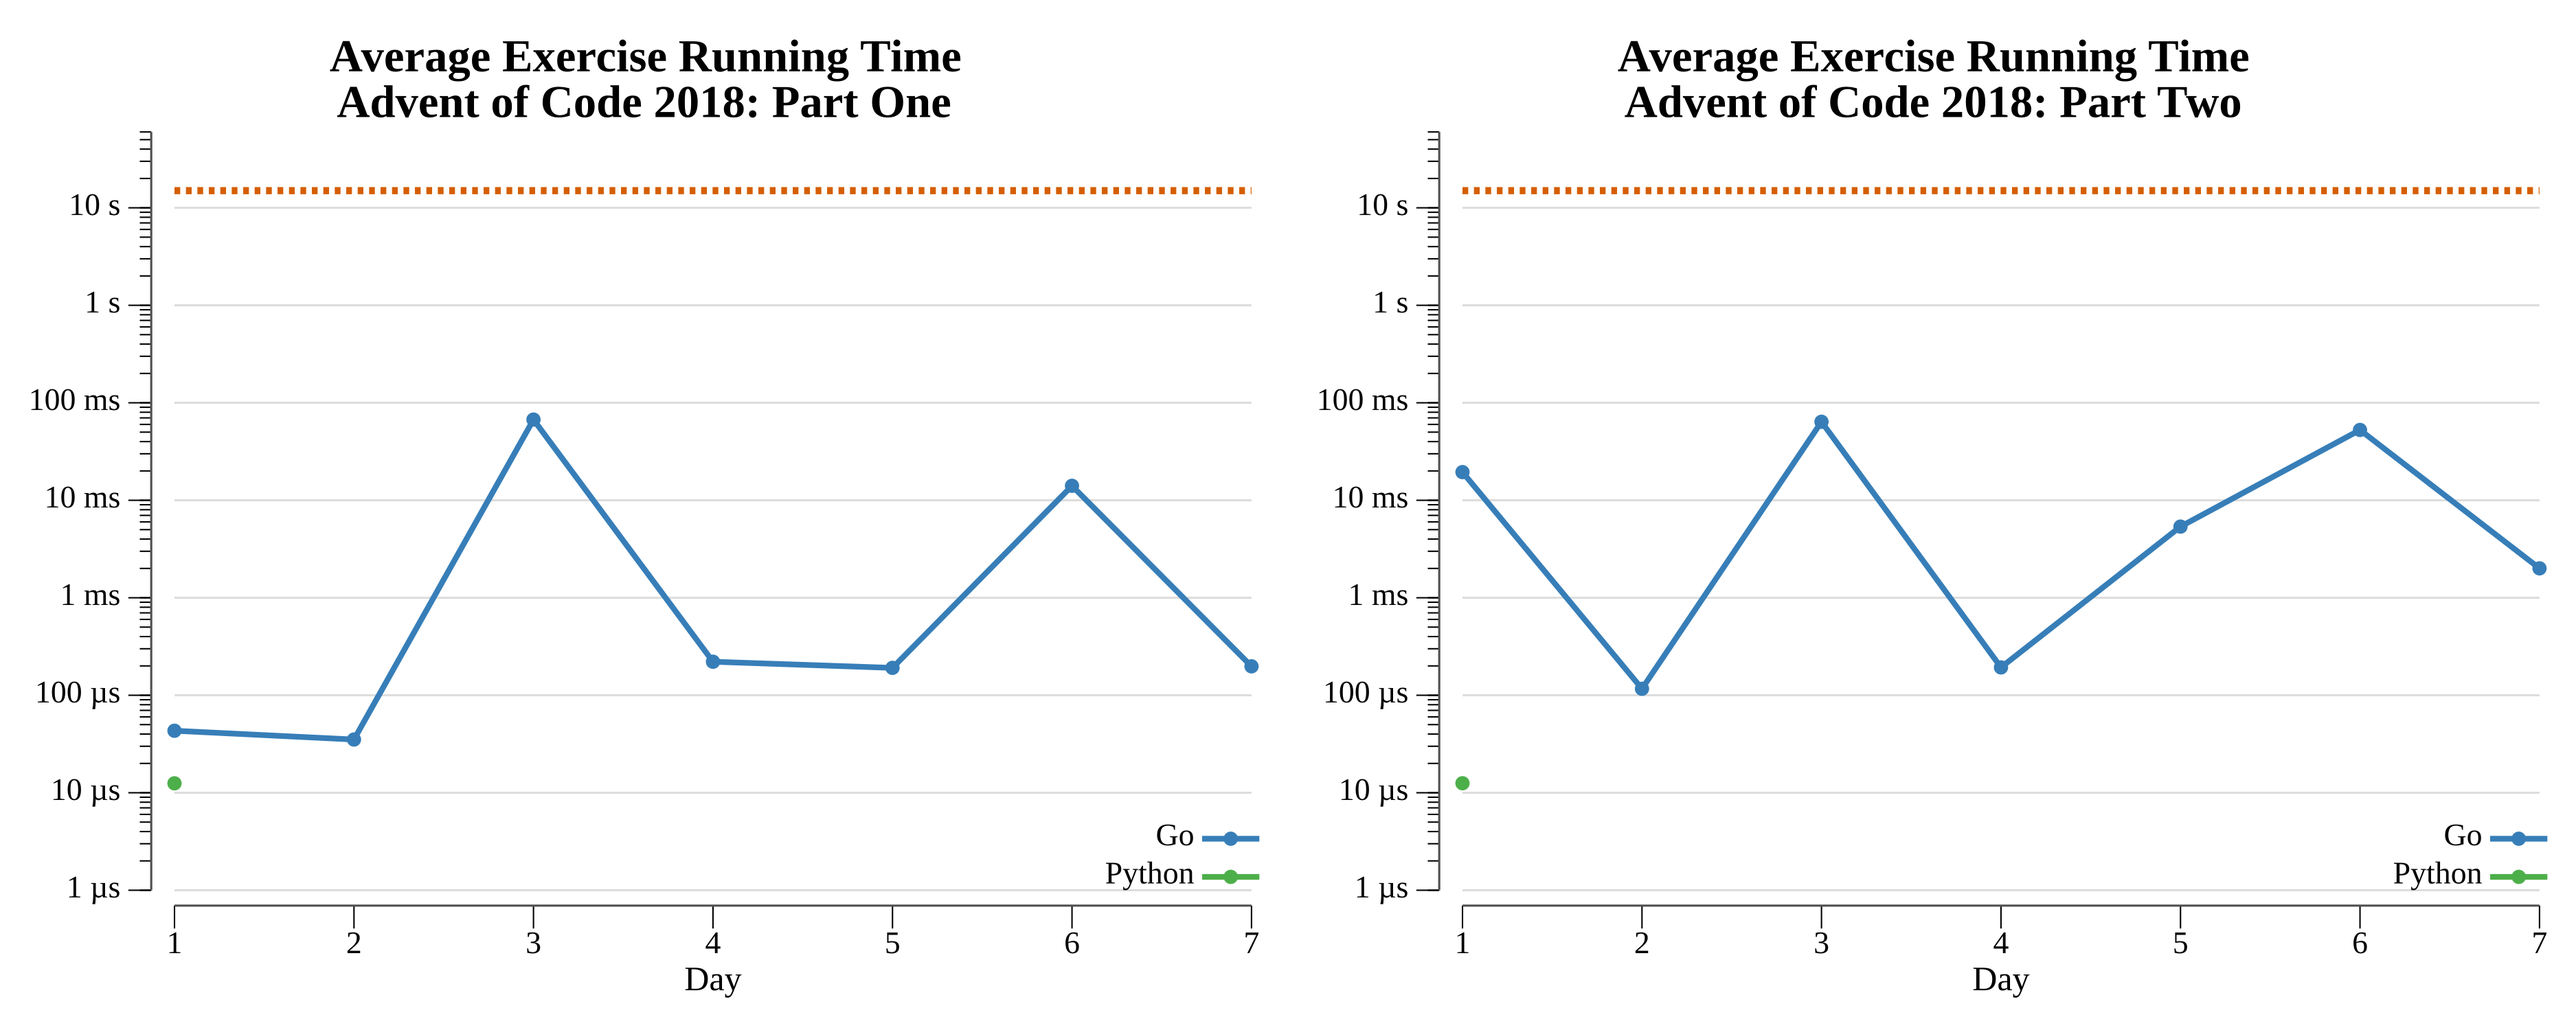
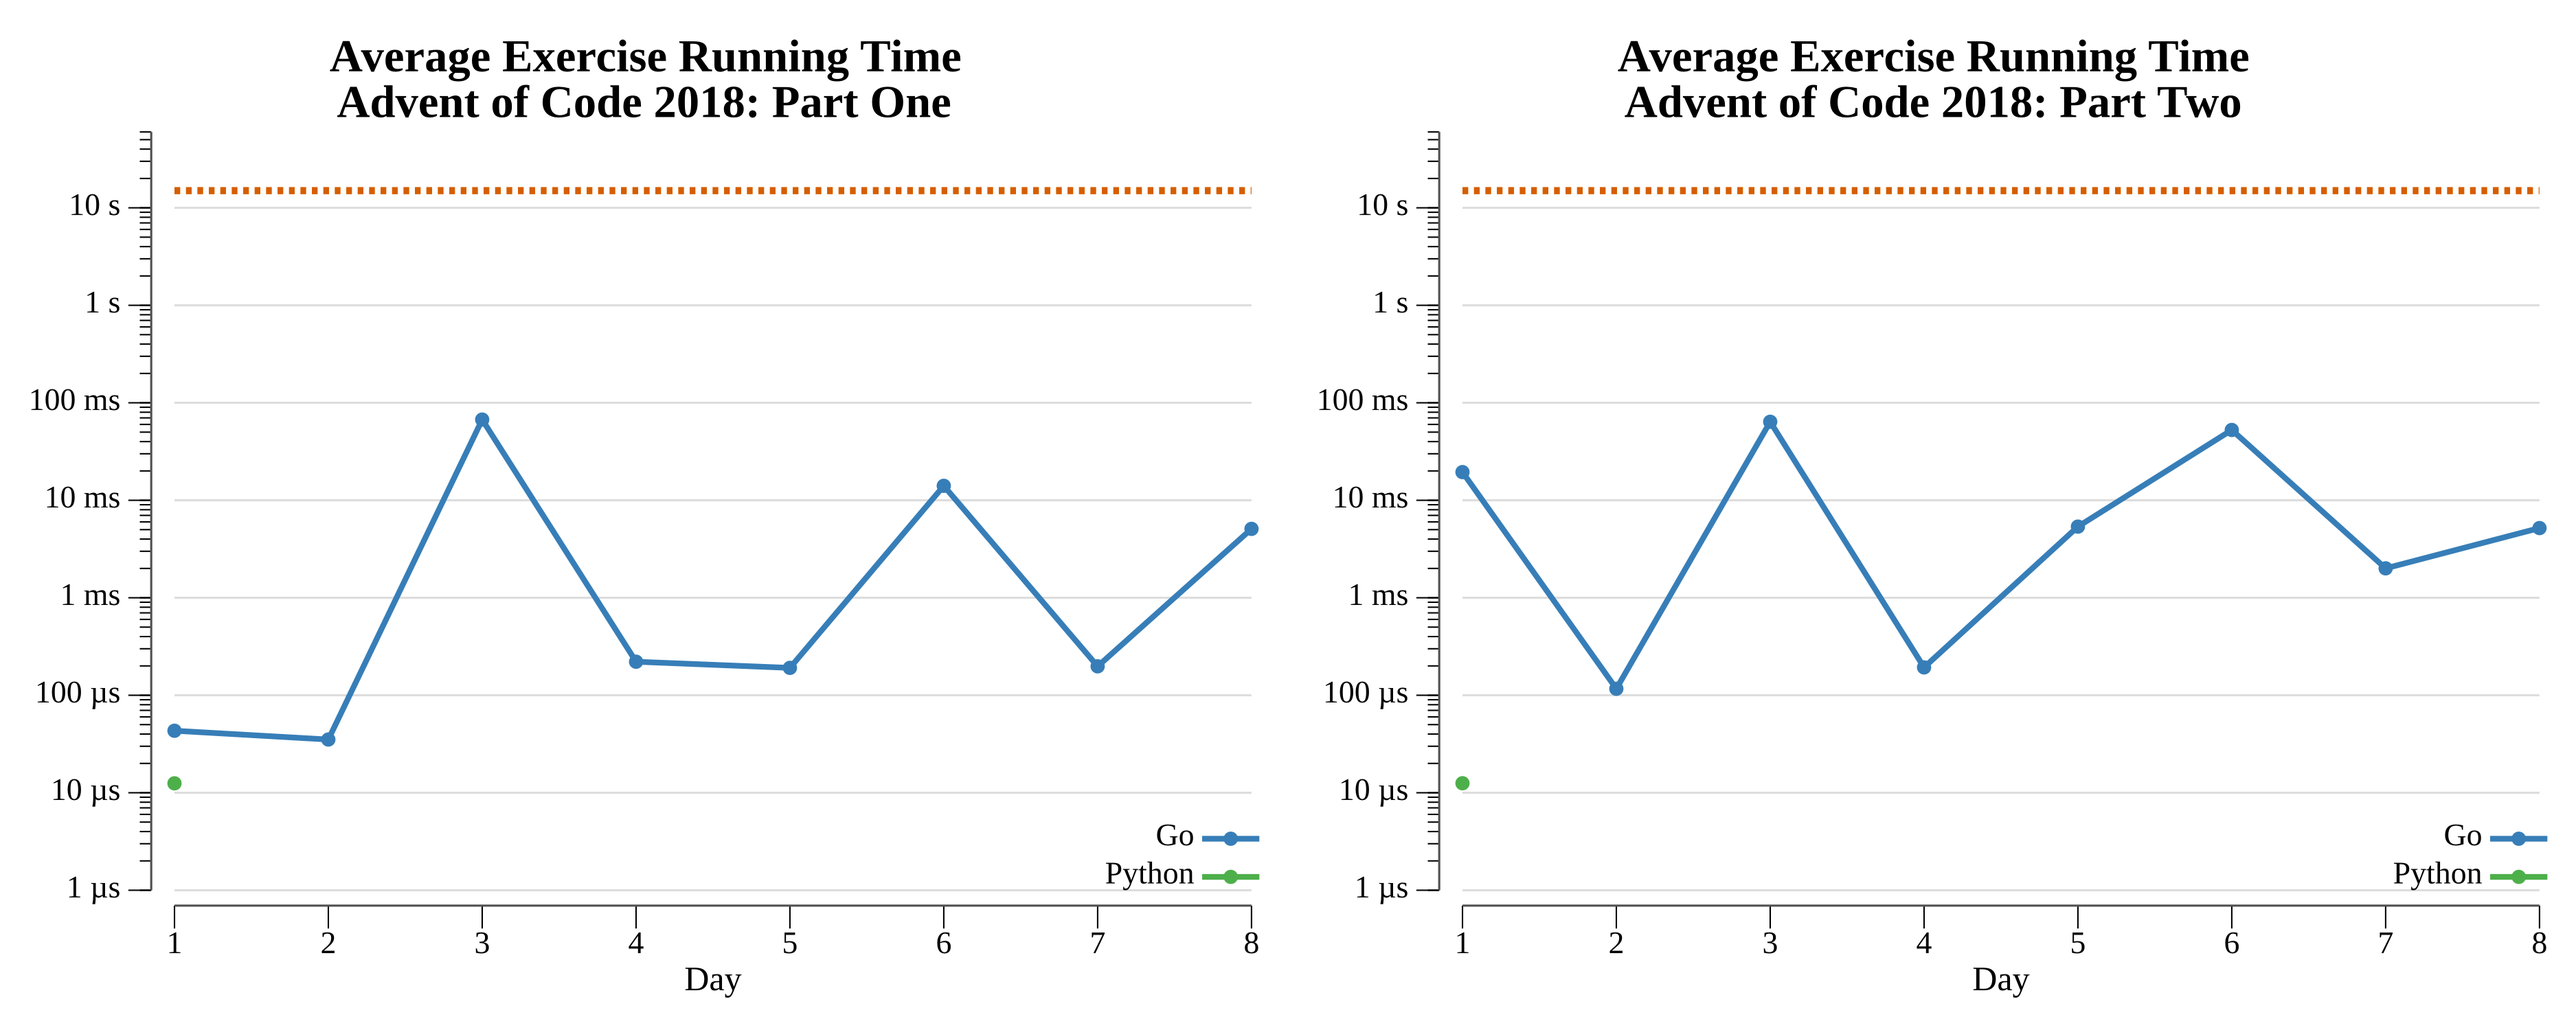
2018 day 8

diff --git a/exercises/2018/08-memoryManeuver/go/exercise.go b/exercises/2018/08-memoryManeuver/go/exercise.go
@@ -1,0 +1,99 @@
+package exercises
+
+import (
+	"fmt"
+	"regexp"
+	"strconv"
+
+	"github.com/asphaltbuffet/advent-of-code/internal/common"
+)
+
+// Exercise for Advent of Code 2018 day 8.
+type Exercise struct {
+	common.BaseExercise
+}
+
+var intRe = regexp.MustCompile(`\d+`)
+
+// parse reads the flat list of numbers describing the tree.
+func parse(instr string) []int {
+	toks := intRe.FindAllString(instr, -1)
+	nums := make([]int, len(toks))
+	for i, t := range toks {
+		nums[i], _ = strconv.Atoi(t)
+	}
+	return nums
+}
+
+// metaSum reads one node starting at nums[i], returning the summed metadata of
+// that node and its whole subtree along with the index just past the node.
+func metaSum(nums []int, i int) (sum, next int) {
+	children, meta := nums[i], nums[i+1]
+	i += 2
+
+	for c := 0; c < children; c++ {
+		var s int
+		s, i = metaSum(nums, i)
+		sum += s
+	}
+
+	for m := 0; m < meta; m++ {
+		sum += nums[i]
+		i++
+	}
+
+	return sum, i
+}
+
+// nodeValue reads one node starting at nums[i], returning its value and the
+// index just past the node. A leaf's value is the sum of its metadata; a node
+// with children sums the values of the children its metadata entries reference
+// (1-based, out-of-range references skipped, repeats counted).
+func nodeValue(nums []int, i int) (value, next int) {
+	children, meta := nums[i], nums[i+1]
+	i += 2
+
+	childValues := make([]int, children)
+	for c := 0; c < children; c++ {
+		childValues[c], i = nodeValue(nums, i)
+	}
+
+	for m := 0; m < meta; m++ {
+		ref := nums[i]
+		i++
+
+		if children == 0 {
+			value += ref
+		} else if ref >= 1 && ref <= children {
+			value += childValues[ref-1]
+		}
+	}
+
+	return value, i
+}
+
+// One returns the answer to the first part of the exercise.
+// Answer: 45865
+func (e Exercise) One(instr string) (any, error) {
+	nums := parse(instr)
+	if len(nums) < 2 {
+		return nil, fmt.Errorf("input too short")
+	}
+
+	sum, _ := metaSum(nums, 0)
+
+	return sum, nil
+}
+
+// Two returns the answer to the second part of the exercise.
+// Answer: 22608
+func (e Exercise) Two(instr string) (any, error) {
+	nums := parse(instr)
+	if len(nums) < 2 {
+		return nil, fmt.Errorf("input too short")
+	}
+
+	value, _ := nodeValue(nums, 0)
+
+	return value, nil
+}

diff --git a/exercises/2018/08-memoryManeuver/README.md b/exercises/2018/08-memoryManeuver/README.md
@@ -1,0 +1,37 @@
+# [Day 8: Memory Maneuver](https://adventofcode.com/2018/day/8)
+
+<!-- [Day 8: Memory Maneuver](08-memoryManeuver) -->
+
+## Notes
+
+The input is a flat list of numbers encoding a tree; each node is `childCount
+metaCount`, then its children, then its metadata. A single recursive reader with
+an index cursor walks the whole structure in one pass.
+
+- **Part One** sums every metadata entry in the tree.
+- **Part Two** computes the root's value: a leaf's value is the sum of its
+  metadata, while an internal node's metadata are 1-based indices into its
+  children, and its value is the sum of the referenced children's values
+  (out-of-range indices skipped, repeats counted).
+
+## Go
+
+```text
+────────────────────────────────────────
+─    2018 Day 8: Memory Maneuver       ─
+────────────────────────────────────────
+
+Solving (Go)…
+1.0:  PASS             5.263ms
+2.0:  PASS             5.821ms
+```
+
+## Python
+
+```text
+    < section intentionally left blank >
+```
+
+## Run Times
+
+![Day 8 run-time graphs](run-times.png)

diff --git a/exercises/2018/README.md b/exercises/2018/README.md
@@ -13,7 +13,7 @@
 | [Day 5: Alchemical Reduction](05-alchemicalReduction/README.md) |  ★ ★  | [Go](05-alchemicalReduction/go) |
 | [Day 6: Chronal Coordinates](06-chronalCoordinates/README.md) |  ★ ★  | [Go](06-chronalCoordinates/go) |
 | [Day 7: The Sum of Its Parts](07-theSumOfItsParts/README.md) |  ★ ★  | [Go](07-theSumOfItsParts/go) |
-| 8                                                             |  ☆ ☆  |                                |
+| [Day 8: Memory Maneuver](08-memoryManeuver/README.md) |  ★ ★  | [Go](08-memoryManeuver/go) |
 | 9                                                             |  ☆ ☆  |                                |
 | 10                                                            |  ☆ ☆  |                                |
 | 11                                                            |  ☆ ☆  |                                |
